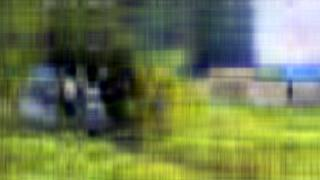
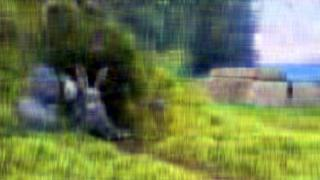
Test for rank 20

diff --git a/sample_video/test.m b/sample_video/test.m
@@ -6,12 +6,12 @@ warning('off', 'all');
 
 currentPath = fileparts(mfilename('fullpath'));
 videoTensor = [];
-R = 10;
+R = 20;
 dims = [205 180 320 3];
 numOfFrames = dims(1);
 iterFrame = 5;
-% N = numOfFrames / iterFrame;
-N = 1;
+N = numOfFrames / iterFrame;
+% N = 1;
 videoTensor = NaN(dims);
 
 for i = 1:N
@@ -28,7 +28,6 @@ for i = 1:N
     fclose(tensorFile);
 
     for j = 1:iterFrame
-    % for j = 1:1
         frame = (i-1)*iterFrame + j;
         T = videoTensor(1:frame, :, :, :);
         whos T
